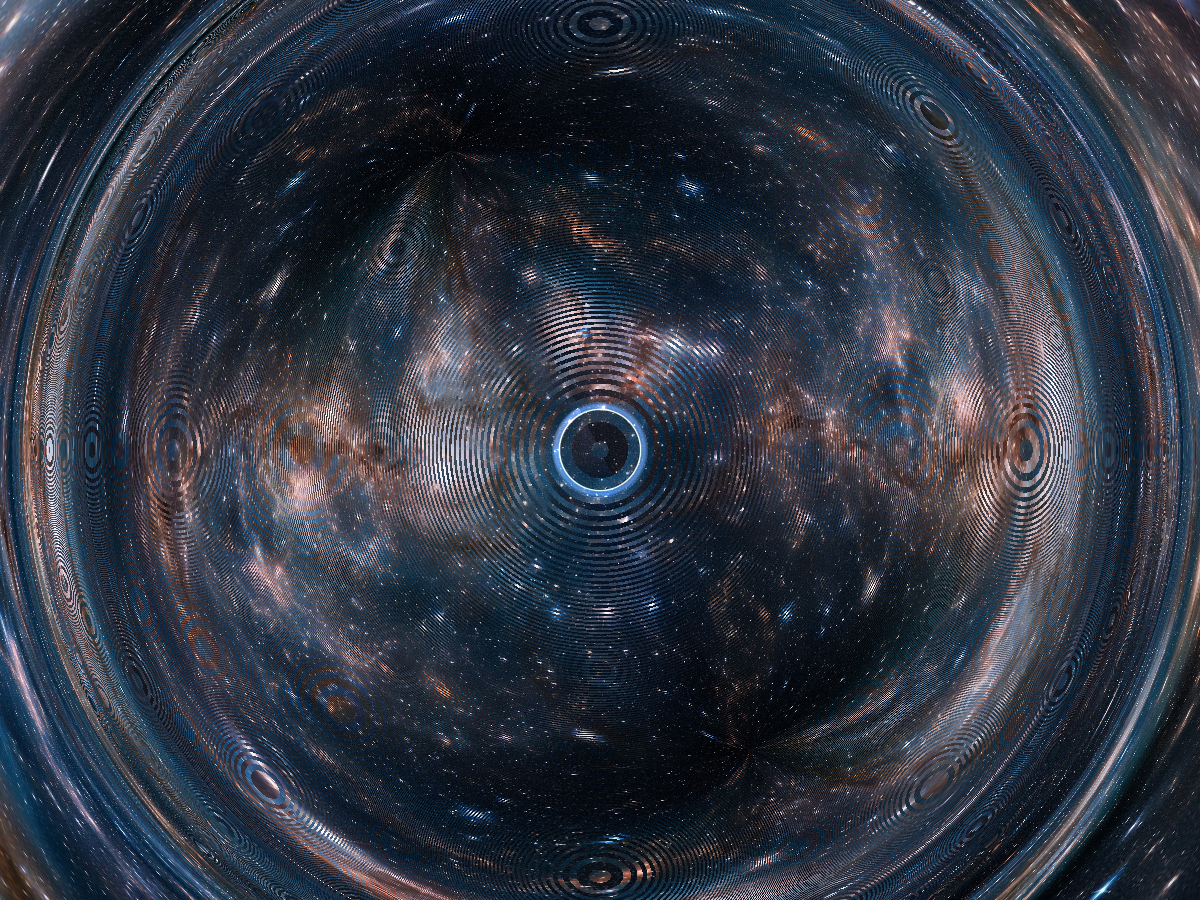
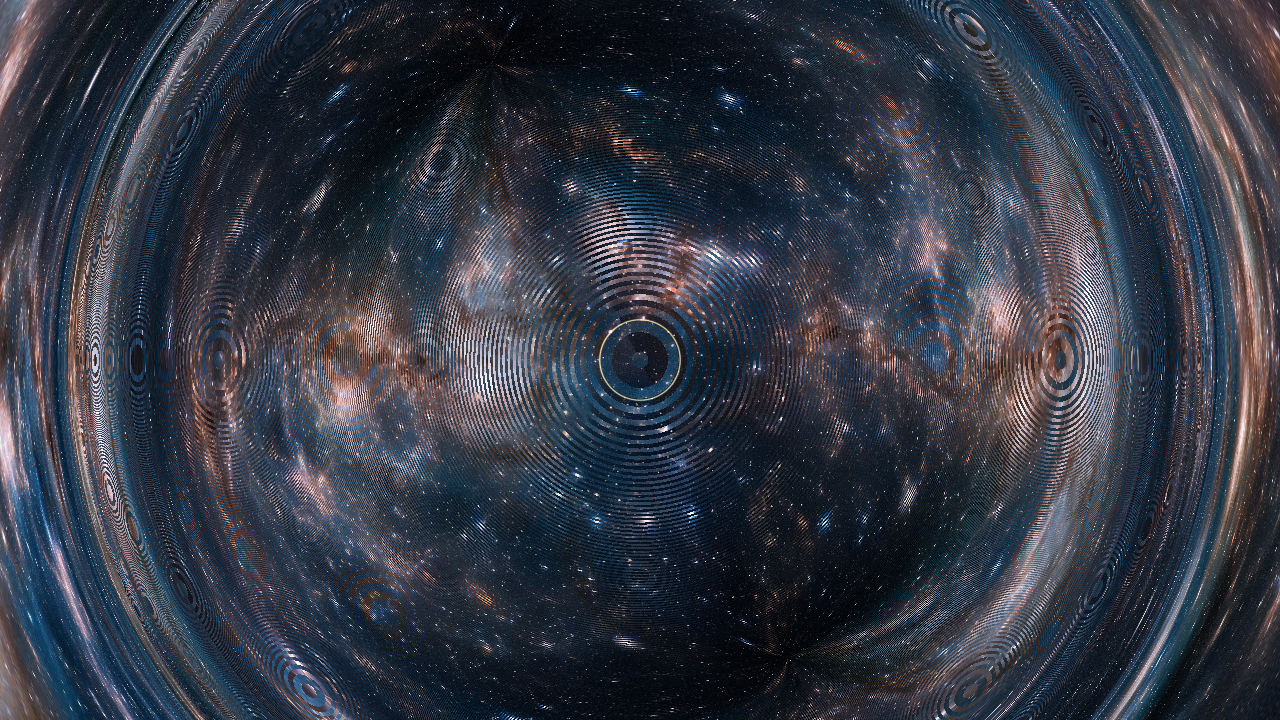
Experimenting with DT size. Seems to jump over the EH or change based on distance

diff --git a/shaderutils.c b/shaderutils.c
@@ -152,7 +152,7 @@ void set_shader_uniforms(GLuint program, BlackHoleParams params, int width, int 
     
     // Camera setup
     double aspect_ratio = (double)width / (double)height;
-    double fov = 60.0 * M_PI / 180.0; //FOV
+    double fov = 50.0 * M_PI / 180.0; //FOV
     double theta = 0.0 * M_PI / 180.0;//camera angle
     double r = params.observer_distance;
     

diff --git a/main.c b/main.c
@@ -14,8 +14,8 @@
 #include "blackholemath.h"
 
 int main() {
-    int width = 1200;
-    int height = 900;
+    int width = 1280;
+    int height = 720;
 
     // Initialize SDL
     if (SDL_Init(SDL_INIT_VIDEO) < 0) {
